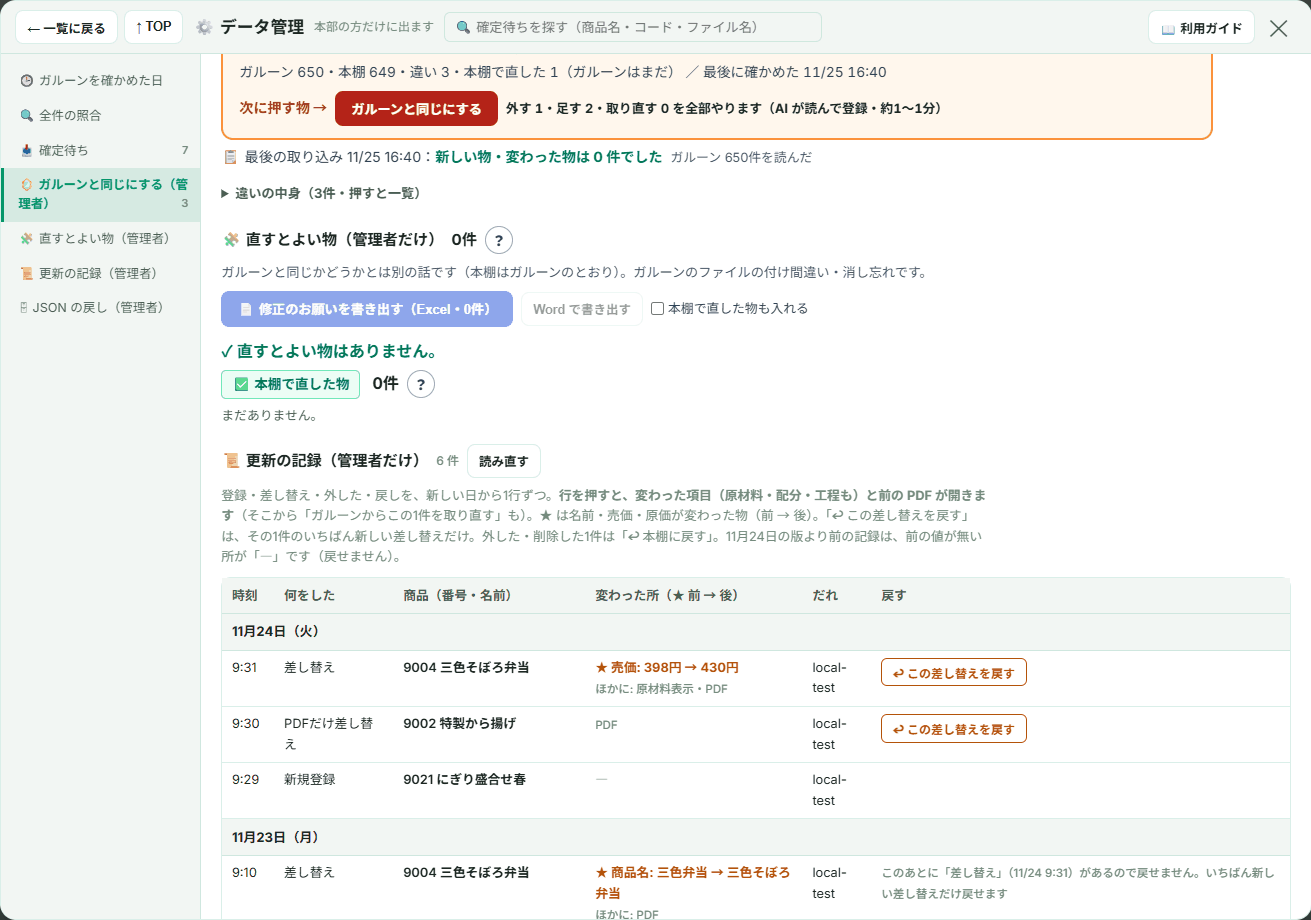
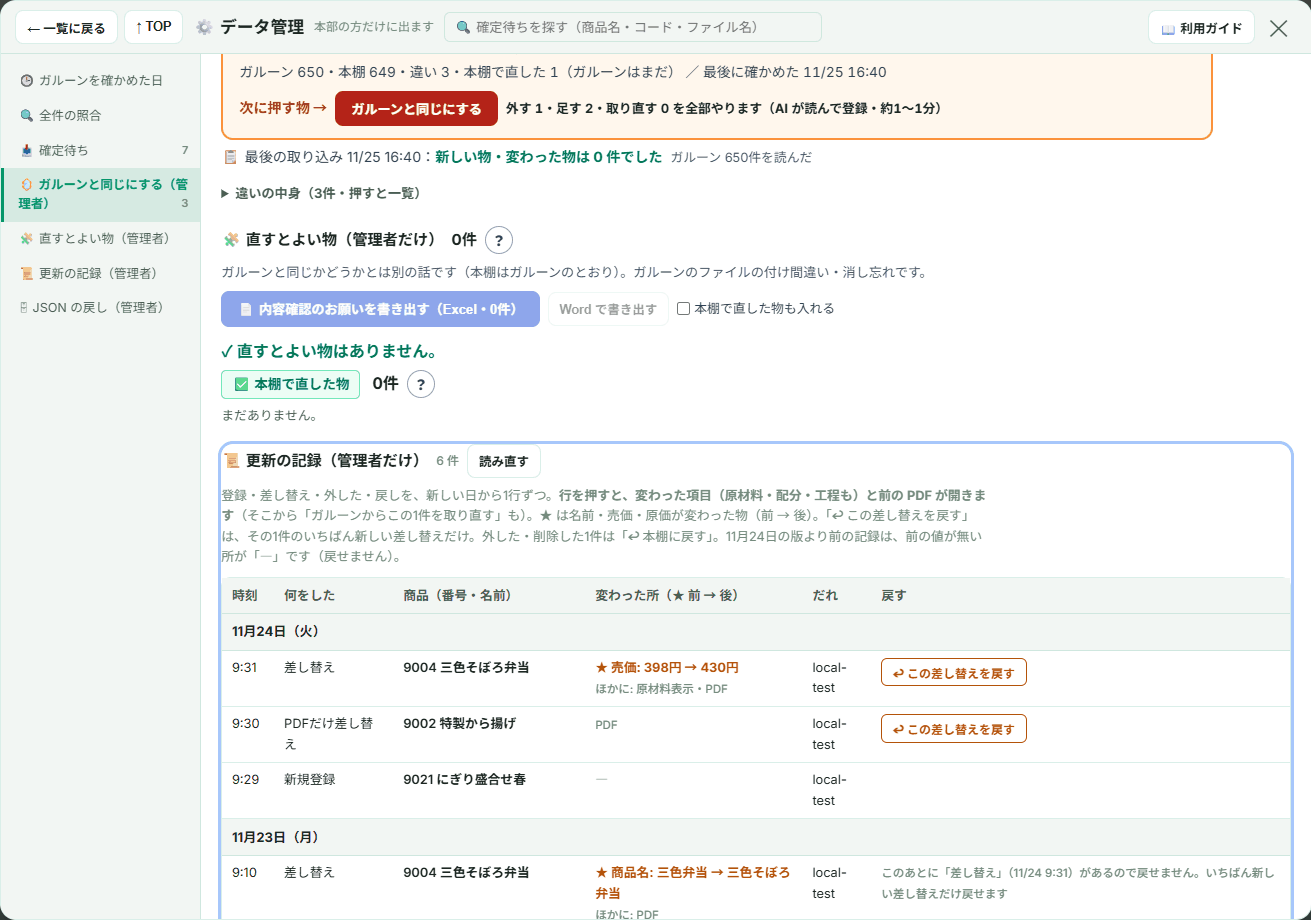
feat: 書き出しを「内容確認のお願い」のひな形に（build recipe-web-2026-11-26c・窓口 recipe-api-2026-11-26c が要る）
押す前の公開中: recipe-web-2026-11-26b（記録 a52cb11）。切り戻しは rollback の台本で、この版へ。

Copy-Desk: r1126c

diff --git a/index.html b/index.html
@@ -1492,7 +1492,7 @@
           <span id="recipe-count-badge">読込中...</span>
         </div>
         <!-- 画面と窓口（GAS）の版（連絡するときに添える字）。窓口の版は、ログインしたあとの返事で分かる -->
-        <div class="main-ver lside-ver" title="画面と窓口（GAS）の版。窓口の版は、ログインしたあとの返事で分かります">build recipe-web-2026-11-26b ／ 窓口 <span id="api-build">（確認中）</span></div>
+        <div class="main-ver lside-ver" title="画面と窓口（GAS）の版。窓口の版は、ログインしたあとの返事で分かります">build recipe-web-2026-11-26c ／ 窓口 <span id="api-build">（確認中）</span></div>
       </aside>
 
       <div class="lmain">
@@ -1643,7 +1643,7 @@
           <div class="qhelp" id="fix-help" hidden>
             <p>どれも本棚には同じ形で残しています（登録は止めていません）。ガルーンで直すと、次の取り込みで知らせが消えます。</p>
             <p>ガルーンですぐ直せないときは「見比べる」から本棚だけ直せます（「本棚で直した物」に残り、戻せます）。</p>
-            <p>「修正のお願いを書き出す」で、ガルーンの担当者さんへ渡す Excel（Word）が作れます。絞り込みと行のチェックで、入れる件を選べます。</p>
+            <p>「内容確認のお願いを書き出す」で、ガルーンの担当者さんへ渡す Excel（Word）が作れます。絞り込みと行のチェックで、入れる件を選べます。</p>
           </div>
           <div class="fx-bar" id="fix-bar"></div>
           <div id="sync-box"></div>
@@ -1967,7 +1967,7 @@
 
   <!-- 探す欄の共通の部品（全部の資料・システムの標準。字の直し方だけで、データは無い。写しの元は weather_pos_analysis/tools/report_base/search_norm.js）。
        🔴 下のアプリの本体より先に読む（後ろに置くと、本体が SearchNorm を見つけられず、ゆれを吸収しない探し方に静かに落ちる） -->
-  <script src="search-norm.js?v=recipe-web-2026-11-26b"></script>
+  <script src="search-norm.js?v=recipe-web-2026-11-26c"></script>
 
   <!-- =========================================================
        5. クライアントサイド アプリケーション・ロジック (JavaScript)
@@ -2824,7 +2824,7 @@
        ・「← ひとつ前に戻る」「↑ はじめへ」を上の帯にいつも出す。移るときは滑らせて、着いた見出しを光らせる
        ========================================================= */
     var GUIDE_NAME = 'レシピの本棚利用ガイド';
-    var GUIDE_ASSET_VER = 'recipe-web-2026-11-26b';   // guide-img/figs.js を読み直す印（画面の版と同じ）
+    var GUIDE_ASSET_VER = 'recipe-web-2026-11-26c';   // guide-img/figs.js を読み直す印（画面の版と同じ）
     var GUIDE_READERS = { store: '店舗向け', hq: '本部向け', admin: '本部・管理者向け' };
     // 図解（写真でない図）。流れの箱の絵は、並びの順に1つずつ
     var GUIDE_FLOWS = { 'flow-daily': ['🔔', '📋', '📥', '✅'], 'flow-garoon': ['📋', '🔎', '🔐', '🗂', '✅'], 'flow-sync': ['📋', '⇄', '📤', '✋', '↩'], 'flow-alerts': ['📄', '⚑', '◇', '🕰', '🛠'], 'flow-old': ['🔖', '▸', '✅'] };
@@ -5576,7 +5576,7 @@
        ② 直すとよい物: 種類ごとに件数・1行＝1組・列は 番号・商品名・何が・ガルーンで直す所・見比べる。なぜ・直し方は「？」を押したときだけ
        ③ 見比べる: 押した行のすぐ下に2件を左右に（項目の表・ページの画像の赤い枠・日付とファイル名）と、本棚で直す釦（押した所に結果）
        ④ 本棚で直した物: 直したこと・いま・だれ・いつ・戻す
-       ⑤ 修正のお願いを書き出す（Excel・Word）: 画面の中で作る（窓口を呼ばない・外の部品を読まない）
+       ⑤ 内容確認のお願いを書き出す（Excel・Word）: 画面の中で作る（窓口を呼ばない・外の部品を読まない）
        字はすべて textContent。窓口は毎回管理者かを確かめる（getMirrorPlan・mirrorApply・getFixBoard・comparePair・shelfFix・shelfFixUndo・shelfFixKeep） */
     function syncEl_(tag, cls, text) { return el_(tag, cls, text); }
     var FIX_KIND_ = {
@@ -5589,9 +5589,9 @@
       nodate: { icon: '❔', label: 'どちらが新しいか分からない', xl: 'どちらが新しいか分からない', unit: '組', chip: 'a-old', what: '同じ名前・日付の無い物がある', where: '見比べて、古い方のファイルを消す',
                 why: '日付の無い物があり、どちらが古いか決められないためです（古いと決めつけません）。',
                 how: '「見比べる」で中身と PDF を見て、古い方をガルーンで消します。両方とも正しいなら「両方とも正しい」にします。' },
-      size:   { icon: '◇', label: 'サイズ違いかも', xl: 'サイズ違い', unit: '組', chip: 'a-size', what: '同じ番号にサイズ違い', where: '上げ直しなら古い方のファイルを消す（別サイズならそのまま）',
+      size:   { icon: '◇', label: 'サイズ違いかも', xl: 'サイズ違い', unit: '組', chip: 'a-size', what: '同じ番号にサイズ違い', where: '同じ番号なので、大と小を1つのファイルにまとめる',
                 why: '同じ番号のレシピが2つあると、店で取り違えるおそれがあるためです。',
-                how: 'サイズ違いの商品なら、このままで正しい形です（「両方とも正しい」で知らせを消せます）。同じ物の上げ直しなら、ガルーンで古い方のファイルを消します。' }
+                how: 'ガルーンで、大と小を1つのファイルにまとめると、店で取り違えにくくなります（まとめたら、もう一方のファイルは消します）。別の商品として分けておくなら「両方とも正しい」で知らせを消せます。' }
     };
     var FIX_ORDER_ = ['dup', 'old', 'nodate', 'size'];
     var fixUi_ = { kinds: { dup: true, old: true, nodate: true, size: true }, off: {}, open: '', done: {}, withFixed: false, pairs: null };
@@ -5740,8 +5740,8 @@
       tr.dataset.key = p.key; tr.dataset.kind = p.t;
       if (done) tr.classList.add('fx-done');
       var t1 = el_('td', 'fx-code'), lab = el_('label'), cb = document.createElement('input');
-      cb.type = 'checkbox'; cb.className = 'fx-pick'; cb.checked = !fixUi_.off[p.key] && !done; cb.disabled = !!done; cb.setAttribute('aria-label', '修正のお願いに入れる');
-      cb.title = '修正のお願い（Excel・Word）に入れる';
+      cb.type = 'checkbox'; cb.className = 'fx-pick'; cb.checked = !fixUi_.off[p.key] && !done; cb.disabled = !!done; cb.setAttribute('aria-label', '内容確認のお願いに入れる');
+      cb.title = '内容確認のお願い（Excel・Word）に入れる';
       cb.addEventListener('change', function () { if (cb.checked) delete fixUi_.off[p.key]; else fixUi_.off[p.key] = 1; renderFixBar_(); });
       lab.appendChild(cb); lab.appendChild(el_('span', 'fx-num', String(p.a.Code) + (String(p.b.Code) !== String(p.a.Code) ? ' ／ ' + String(p.b.Code) : '')));
       t1.appendChild(lab); tr.appendChild(t1);
@@ -6157,7 +6157,7 @@
       return p;
     }
 
-    /* ── 修正のお願いを書き出す（Excel .xlsx／Word .doc）: 画面の中で作る（窓口を呼ばない・外の部品を読まない）──
+    /* ── 内容確認のお願いを書き出す（Excel .xlsx／Word .doc）: 画面の中で作る（窓口を呼ばない・外の部品を読まない）──
        選ぶ件: 絞り込み（種類）× 行のチェック（既定＝全部の知らせ・本棚で直した物は除く・「本棚で直した物も入れる」で足す）
        Excel は字を「字の欄」（inlineStr）で書く＝式にならない。先頭が = + - @ の字は、さらに「字として扱う」印（quotePrefix）を付ける */
     function applyKindFilter_() {
@@ -6184,7 +6184,7 @@
       var wl = el_('label', 'fx-wf'), wf = document.createElement('input'); wf.type = 'checkbox'; wf.checked = fixUi_.withFixed;
       wf.addEventListener('change', function () { fixUi_.withFixed = wf.checked; renderFixBar_(); });
       wl.appendChild(wf); wl.appendChild(document.createTextNode(' 本棚で直した物も入れる'));
-      var x1 = el_('button', 'fx-xbtn', '📄 修正のお願いを書き出す（Excel・' + rows.length + '件）'); x1.type = 'button'; x1.disabled = !rows.length; x1.id = 'fix-xlsx';
+      var x1 = el_('button', 'fx-xbtn', '📄 内容確認のお願いを書き出す（Excel・' + rows.length + '件）'); x1.type = 'button'; x1.disabled = !rows.length; x1.id = 'fix-xlsx';
       var x2 = el_('button', 'rb-btn', 'Word で書き出す'); x2.type = 'button'; x2.disabled = !rows.length; x2.id = 'fix-doc';
       var msg = el_('span', 'mnote fx-exmsg'); msg.setAttribute('role', 'status');
       x1.addEventListener('click', function () { fixExport_('xlsx', msg); });
@@ -6213,17 +6213,19 @@
       });
       return out;
     }
-    var FIX_XL_HEAD_ = ['No.', '番号', '商品名', '何が', '相手のレシピ（番号・名前・日付）', 'ガルーンで直す所', 'ガルーンのファイル名', '本棚の状態', '直した日', '直した人', 'メモ'];
+    /* 2026-11-26c: PO が直したひな形（内容確認のお願い_2026-11-25.xlsx）に合わせた。題と頭の1行は PO の字のまま・「直した日」「直した人」の列は外した・担当者が書く欄はメモだけ */
+    var FIX_XL_HEAD_ = ['No.', '番号', '商品名', '何が', '相手のレシピ（番号・名前・日付）', 'ガルーンで直す所（案／予測）', 'ガルーンのファイル名', '本棚の状態', 'メモ'];
+    var FIX_XL_NAME_ = '内容確認のお願い';
+    var FIX_XL_SUB_ = '【ご担当者様へ】レシピの本棚へファイルをコピーした際に、機械的な検出とAI分析の結果、気付いた齟齬です。内容のご確認よろしくお願いします。';
     var FIX_CREDIT_ = '生成物の作成にAIを利用しています。';
     function fixExport_(kind, msg) {
       var rows = fixExportRows_();
       if (!rows.length) { msg.textContent = '書き出す件がありません（絞り込み・行のチェックを見てください）。'; return; }
-      var dd = new Date(), day = dd.getFullYear() + '-' + ('0' + (dd.getMonth() + 1)).slice(-2) + '-' + ('0' + dd.getDate()).slice(-2), title = 'レシピの本棚：ガルーンのレシピの直しのお願い（' + day + '）';
-      var sub = 'ガルーンの担当者さんへ：「ガルーンで直す所」を直したら、右の「直した日・直した人」を書いて返してください（' + rows.length + '件）。';
-      var data = rows.map(function (r, i) { return [String(i + 1), r.code, r.name, r.what, r.other, r.where, r.file, r.state, '', '', '']; });
+      var dd = new Date(), day = dd.getFullYear() + '-' + ('0' + (dd.getMonth() + 1)).slice(-2) + '-' + ('0' + dd.getDate()).slice(-2), title = 'レシピの本棚：ガルーンのレシピの' + FIX_XL_NAME_ + '（' + day + '）';
+      var data = rows.map(function (r, i) { return [String(i + 1), r.code, r.name, r.what, r.other, r.where, r.file, r.state, '']; });
       try {
-        var blob = kind === 'xlsx' ? xlsxBlob_('直しのお願い', title, sub, FIX_XL_HEAD_, data, FIX_CREDIT_) : docBlob_(title, sub, FIX_XL_HEAD_, data, FIX_CREDIT_);
-        fixDownload_(blob, '直しのお願い_' + day + (kind === 'xlsx' ? '.xlsx' : '.doc'));
+        var blob = kind === 'xlsx' ? xlsxBlob_(FIX_XL_NAME_, title, FIX_XL_SUB_, FIX_XL_HEAD_, data, FIX_CREDIT_) : docBlob_(title, FIX_XL_SUB_, FIX_XL_HEAD_, data, FIX_CREDIT_);
+        fixDownload_(blob, FIX_XL_NAME_ + '_' + day + (kind === 'xlsx' ? '.xlsx' : '.doc'));
         msg.textContent = '✓ 書き出しました（' + rows.length + '件・' + (kind === 'xlsx' ? 'Excel' : 'Word') + '）';
       } catch (e) { msg.textContent = '書き出せませんでした: ' + String(e && e.message || e); }
     }
@@ -6262,7 +6264,7 @@
       var end = new Uint8Array([].concat(u32(0x06054b50), u16(0), u16(0), u16(files.length), u16(files.length), u32(cSize), u32(offset), u16(0)));
       return new Blob(parts.concat(central, [end]), { type: 'application/vnd.openxmlformats-officedocument.spreadsheetml.sheet' });
     }
-    /** 1枚の表の .xlsx（題・ひとこと・見出し・行・いちばん下に小さくクレジット）。見出しの行と左の2列を固定・見出しに絞り込み */
+    /** 1枚の表の .xlsx（題・ひとこと〈太字〉・見出し・行・いちばん下に小さくクレジット）。見出しの行と左の3列を固定・見出しに絞り込み・いちばん右の列（メモ）だけ書く欄の色 */
     function xlsxBlob_(sheetName, title, sub, head, rows, credit) {
       var enc = new TextEncoder(), cols = head.length, last = String.fromCharCode(64 + cols);
       var cell = function (ref, v, s) {
@@ -6272,17 +6274,17 @@
       };
       var x = [], r = 1;
       x.push('<row r="1" ht="24" customHeight="1">' + cell('A1', title, 1) + '</row>');
-      x.push('<row r="2">' + cell('A2', sub, 7) + '</row>');
+      x.push('<row r="2" ht="23.25" customHeight="1">' + cell('A2', sub, 7) + '</row>');
       r = 4;
-      x.push('<row r="4" ht="30" customHeight="1">' + head.map(function (h, i) { return cell(String.fromCharCode(65 + i) + '4', h, 2); }).join('') + '</row>');
+      x.push('<row r="4" ht="25.5" customHeight="1">' + head.map(function (h, i) { return cell(String.fromCharCode(65 + i) + '4', h, 2); }).join('') + '</row>');
       rows.forEach(function (row) {
         r++;
-        x.push('<row r="' + r + '">' + row.map(function (v, i) { return cell(String.fromCharCode(65 + i) + r, v, i >= cols - 3 ? 6 : 3); }).join('') + '</row>');
+        x.push('<row r="' + r + '">' + row.map(function (v, i) { return cell(String.fromCharCode(65 + i) + r, v, i === cols - 1 ? 6 : 3); }).join('') + '</row>');
       });
       var lastData = r;
       r += 2;
       x.push('<row r="' + r + '">' + cell('A' + r, credit, 5) + '</row>');
-      var widths = [5, 8, 30, 20, 34, 30, 40, 18, 12, 12, 24];
+      var widths = [5, 8, 30, 20, 34, 30, 40, 18, 24];
       var sheet = '<?xml version="1.0" encoding="UTF-8" standalone="yes"?>' +
         '<worksheet xmlns="http://schemas.openxmlformats.org/spreadsheetml/2006/main" xmlns:r="http://schemas.openxmlformats.org/officeDocument/2006/relationships">' +
         '<sheetPr><pageSetUpPr fitToPage="1"/></sheetPr>' +
@@ -6316,7 +6318,7 @@
         '<xf numFmtId="49" fontId="0" fillId="0" borderId="1" xfId="0" applyBorder="1" applyAlignment="1" applyNumberFormat="1" quotePrefix="1"><alignment vertical="top" wrapText="1"/></xf>' +
         '<xf numFmtId="49" fontId="3" fillId="0" borderId="0" xfId="0" applyFont="1" applyNumberFormat="1" quotePrefix="1"/>' +
         '<xf numFmtId="49" fontId="0" fillId="3" borderId="1" xfId="0" applyFill="1" applyBorder="1" applyAlignment="1" applyNumberFormat="1" quotePrefix="1"><alignment vertical="top" wrapText="1"/></xf>' +
-        '<xf numFmtId="49" fontId="0" fillId="0" borderId="0" xfId="0" applyAlignment="1" applyNumberFormat="1" quotePrefix="1"><alignment vertical="top" wrapText="1"/></xf>' +
+        '<xf numFmtId="49" fontId="2" fillId="0" borderId="0" xfId="0" applyFont="1" applyAlignment="1" applyNumberFormat="1" quotePrefix="1"><alignment vertical="top" wrapText="1"/></xf>' +
         '</cellXfs><cellStyles count="1"><cellStyle name="標準" xfId="0" builtinId="0"/></cellStyles></styleSheet>';
       var sn = xmlEsc_(sheetName);
       var book = '<?xml version="1.0" encoding="UTF-8" standalone="yes"?>' +
@@ -6347,8 +6349,8 @@
       var html = '<html xmlns:o="urn:schemas-microsoft-com:office:office" xmlns:w="urn:schemas-microsoft-com:office:word"><head><meta charset="utf-8"><title>' + e(title) + '</title>' +
         '<style>@page{size:A4 landscape;margin:12mm}body{font-family:"游ゴシック","Yu Gothic",sans-serif;font-size:10pt}h1{font-size:14pt}table{border-collapse:collapse;width:100%}' +
         'th,td{border:1px solid #94a3b8;padding:4px 6px;vertical-align:top;font-size:9pt}th{background:#e2e8f0}td.in{background:#fff7d6}.credit{font-size:7pt;color:#64748b;text-align:right;margin-top:12pt}</style></head><body>' +
-        '<h1>' + e(title) + '</h1><p>' + e(sub) + '</p><table><thead><tr>' + head.map(function (h) { return '<th>' + e(h) + '</th>'; }).join('') + '</tr></thead><tbody>' +
-        rows.map(function (r) { return '<tr>' + r.map(function (v, i) { return '<td' + (i >= head.length - 3 ? ' class="in"' : '') + '>' + e(v) + '</td>'; }).join('') + '</tr>'; }).join('') +
+        '<h1>' + e(title) + '</h1><p><b>' + e(sub) + '</b></p><table><thead><tr>' + head.map(function (h) { return '<th>' + e(h) + '</th>'; }).join('') + '</tr></thead><tbody>' +
+        rows.map(function (r) { return '<tr>' + r.map(function (v, i) { return '<td' + (i === head.length - 1 ? ' class="in"' : '') + '>' + e(v) + '</td>'; }).join('') + '</tr>'; }).join('') +
         '</tbody></table><p class="credit">' + e(credit) + '</p></body></html>';
       return new Blob([String.fromCharCode(0xFEFF) + html], { type: 'application/msword' });
     }

diff --git a/guide-img/figs.js b/guide-img/figs.js
@@ -4,17 +4,17 @@
 'use strict';
 window.GUIDE_SHOTS = Object.freeze({
   "login": { src: "guide-img/login.png?v=6dd92856", w: 488, h: 442, alt: "「ログインの期限が切れました」と出たログインの画面の写真（作り物）", marks: [[12.7,39.5,14.5,41.5,71,4.3],[8,48.9,9.9,51,80.3,15.7],[28.9,67.3,30.8,69.4,38.5,11.3]] },
-  "map": { src: "guide-img/map.png?v=2666e896", w: 1366, h: 437, alt: "店舗のアカウントで開いた一覧の画面の写真（作り物のレシピ）", marks: [[31.7,1.4,32.4,3.5,35.4,8.1],[1.2,21.2,1.8,23.3,13.3,37],[1.2,65.2,1.8,67.2,13.3,17.3],[16.3,19.3,16.9,21.3,82,10.6],[25.6,29,26.3,31,43,10.3],[16.3,29,16.9,31,3.5,10.3],[70.4,1.6,71,3.6,7.9,7.8],[78.6,1.9,79.3,3.9,18.8,7.2],[1.3,1.1,2,3.2,14.3,8.7]] },
+  "map": { src: "guide-img/map.png?v=9b115cb9", w: 1366, h: 437, alt: "店舗のアカウントで開いた一覧の画面の写真（作り物のレシピ）", marks: [[31.7,1.4,32.4,3.5,35.4,8.1],[1.2,21.2,1.8,23.3,13.3,37],[1.2,65.2,1.8,67.2,13.3,17.3],[16.3,19.3,16.9,21.3,82,10.6],[25.6,29,26.3,31,43,10.3],[16.3,29,16.9,31,3.5,10.3],[70.4,1.6,71,3.6,7.9,7.8],[78.6,1.9,79.3,3.9,18.8,7.2],[1.3,1.1,2,3.2,14.3,8.7]] },
   "search": { src: "guide-img/search.png?v=d89b409d", w: 1366, h: 232, alt: "探す欄に「からあげ」と打って、唐揚げ・から揚げに絞り込んだ所の写真（作り物のレシピ）", marks: [[31.7,2.7,32.4,6.6,35.4,15.2],[16.2,23,16.8,26.9,29.2,11.1],[1.2,40,1.8,43.9,13.3,56.1],[16.3,54.5,16.9,58.4,82,19.4]] },
-  "sort": { src: "guide-img/sort.png?v=b3d25486", w: 1366, h: 588, alt: "一覧の見出し「売価」を2回押して、売価の高い順に並べた所の写真（作り物のレシピ）", marks: [[74.7,6.3,75.4,7.8,3.5,5.4],[77,7.2,77.6,8.7,1.1,3.6],[24.8,0.4,25.4,1.9,20.1,3.2],[16.3,89.2,16.9,90.7,82,7.7]] },
-  "pref": { src: "guide-img/pref.png?v=99167c4e", w: 1366, h: 900, alt: "「使う」のチェックを外して、そのレシピが下へ移った所の写真（作り物のレシピ）", marks: [[16.3,14.1,16.9,15.1,3.5,5],[16.3,46,16.9,47,82,5],[66,82,66.6,83,31.2,7.5],[1.2,31.6,1.8,32.6,13.3,8.4]] },
+  "sort": { src: "guide-img/sort.png?v=c6ad2a72", w: 1366, h: 588, alt: "一覧の見出し「売価」を2回押して、売価の高い順に並べた所の写真（作り物のレシピ）", marks: [[74.7,6.3,75.4,7.8,3.5,5.4],[77,7.2,77.6,8.7,1.1,3.6],[24.8,0.4,25.4,1.9,20.1,3.2],[16.3,89.2,16.9,90.7,82,7.7]] },
+  "pref": { src: "guide-img/pref.png?v=bdd16782", w: 1366, h: 900, alt: "「使う」のチェックを外して、そのレシピが下へ移った所の写真（作り物のレシピ）", marks: [[16.3,14.1,16.9,15.1,3.5,5],[16.3,46,16.9,47,82,5],[66,82,66.6,83,31.2,7.5],[1.2,31.6,1.8,32.6,13.3,8.4]] },
   "detail": { src: "guide-img/detail.png?v=4c6a9d05", w: 1200, h: 810, alt: "レシピを開いて原本PDFを出した所の写真（作り物のレシピ・作り物のPDF）", marks: [[0,8.5,0,9.6,100,7.1],[21.5,92.4,22.3,93.5,28.1,5.1],[51.1,92.4,51.8,93.5,12.7,4.9],[65.1,92.4,65.9,93.5,11.8,5.1],[94,1.3,94.8,2.4,3.3,4.9]] },
   "notice": { src: "guide-img/notice.png?v=554ed68e", w: 1366, h: 222, alt: "本部の画面の上に出る「ガルーンを確かめていません」の知らせの写真（作り物）", marks: [[17.3,27.7,18,31.8,33.2,20.2],[35.1,73.6,35.8,77.7,8.9,14],[44.2,73.6,44.8,77.7,6.3,14]] },
   "daily": { src: "guide-img/daily.png?v=7b88eb47", w: 1366, h: 203, alt: "管理者の画面のいちばん上に出る毎日の帯「今日はまだ取り込んでいません」の写真（作り物）", marks: [[17.3,30.3,18,34.8,30.6,12.1],[23.3,70.4,24,74.9,7.9,16.3],[31.4,70.4,32.1,74.9,12.6,16.3],[44.2,70.4,44.8,74.9,6.3,16.3]] },
-  "history": { src: "guide-img/history.png?v=0f73d6d5", w: 1311, h: 920, alt: "管理者のデータ管理の「更新の記録」の写真（作り物）", marks: [[0,26.7,0,27.7,15.4,4.2],[16.1,65.6,16.8,66.5,81.7,4.4],[44.6,70.3,45.2,71.3,15.4,2.7],[66.4,70.3,67.1,71.3,11.4,3.5],[66.4,92.9,67.1,93.9,30.3,4.2]] },
+  "history": { src: "guide-img/history.png?v=0ad269ec", w: 1311, h: 920, alt: "管理者のデータ管理の「更新の記録」の写真（作り物）", marks: [[0,26.7,0,27.7,15.4,4.2],[16.1,65.6,16.8,66.5,81.7,4.4],[44.6,70.3,45.2,71.3,15.4,2.7],[66.4,70.3,67.1,71.3,11.4,3.5],[66.4,92.9,67.1,93.9,30.3,4.2]] },
   "mirror": { src: "guide-img/mirror.png?v=d3fa9d48", w: 1081, h: 247, alt: "管理者のデータ管理の「ガルーンと同じにする」の状態の札の写真（作り物）", marks: [[1.2,20.6,2.1,24.3,88.8,13.9],[10.1,45.8,10.9,49.5,15.4,15.8],[0,68.1,0.4,71.8,81.1,10.7],[29.7,0,30.6,1.6,7.2,15.4],[26.4,0,27.3,2.8,3,13]] },
-  "fixpair": { src: "guide-img/fixpair.png?v=1a86bf39", w: 1081, h: 1792, alt: "管理者のデータ管理の「直すとよい物」で、2件を見比べた所の写真（作り物のレシピ・作り物のPDF）", marks: [[0,0,0.4,0.2,99.3,1.9],[85.4,4.2,86.2,4.7,7.5,2.1],[0.6,13.7,1.4,14.2,97.3,2],[35.4,51,36.2,51.5,5.7,5.3],[0.6,88.3,1.4,88.8,97.3,10.3]] },
-  "fixexport": { src: "guide-img/fixexport.png?v=e281a371", w: 1081, h: 430, alt: "管理者のデータ管理の「直すとよい物」の、修正のお願いを書き出す所の写真（作り物）", marks: [[0,13.9,0.4,16,65.7,8.4],[0.5,55.2,1.4,57.3,1.6,4],[0,23.2,0.4,25.3,27.4,9.3],[27.3,23.4,28.2,25.5,11.6,8.8]] },
+  "fixpair": { src: "guide-img/fixpair.png?v=a08efd81", w: 1081, h: 1792, alt: "管理者のデータ管理の「直すとよい物」で、2件を見比べた所の写真（作り物のレシピ・作り物のPDF）", marks: [[0,0,0.4,0.2,99.3,1.9],[85.4,4.2,86.2,4.7,7.5,2.1],[0.6,13.7,1.4,14.2,97.3,2],[35.4,51,36.2,51.5,5.7,5.3],[0.6,88.3,1.4,88.8,97.3,10.3]] },
+  "fixexport": { src: "guide-img/fixexport.png?v=d7d67c46", w: 1081, h: 430, alt: "管理者のデータ管理の「直すとよい物」の、内容確認のお願いを書き出す所の写真（作り物）", marks: [[0,13.9,0.4,16,65.7,8.4],[0.5,55.2,1.4,57.3,1.6,4],[0,23.2,0.4,25.3,29.8,9.3],[29.8,23.4,30.6,25.5,11.6,8.8]] },
   "manage": { src: "guide-img/manage.png?v=aee59d46", w: 1311, h: 1012, alt: "本部のアカウントで開いたデータ管理の画面の写真（作り物）", marks: [[0.3,0,1,0.8,13.1,3.8],[0,4.2,0,5.1,15.5,94.9],[16,5.8,16.7,6.7,81.9,14.5],[17.5,39.3,18.1,40.2,79,3.5],[86.7,0,87.4,0.8,8.5,3.8]] },
   "pending": { src: "guide-img/pending.png?v=bc7c054e", w: 1081, h: 902, alt: "データ管理の「確定待ち」の表の写真（作り物のファイル名）", marks: [[16.6,49.5,17.5,50.5,20.4,8.7],[2.3,50.3,3.1,51.3,11.4,3.3],[1.4,41.2,2.2,42.2,95.7,8.7],[23.7,30.6,24.5,31.6,21,4.1],[86.8,42,87.7,43,9.3,3.6]] },
   "kinds": { src: "guide-img/kinds.png?v=3d93509d", w: 1085, h: 236, alt: "確認画面の「今の登録との違い」（3つの札）の写真（作り物）", marks: [[0,12.4,0.6,16.2,32.6,60.8],[32.9,12.4,33.7,16.2,32.6,60.8],[66.1,12.4,66.9,16.2,32.6,60.8],[0,75,0.6,78.8,72.9,18.6]] },
